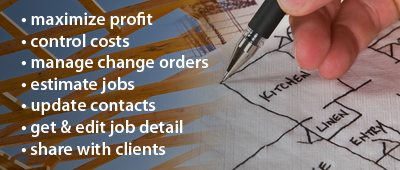
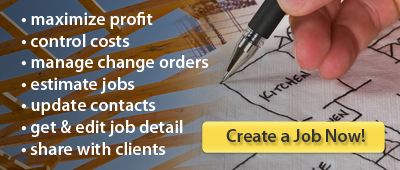
updated files

Changed region(s): [[0.48, 0.7059, 0.96, 0.9118]]

diff --git a/gold/js/libs/modernizr.custom.min.js b/gold/js/libs/modernizr.custom.min.js
@@ -1,0 +1,4 @@
+/* Modernizr 2.0.6 (Custom Build) | MIT & BSD
+ * Contains: iepp | respond | mq | cssclasses | teststyles | load
+ */
+;window.Modernizr=function(a,b,c){function z(a,b){return!!~(""+a).indexOf(b)}function y(a,b){return typeof a===b}function x(a,b){return w(prefixes.join(a+";")+(b||""))}function w(a){k.cssText=a}var d="2.0.6",e={},f=!0,g=b.documentElement,h=b.head||b.getElementsByTagName("head")[0],i="modernizr",j=b.createElement(i),k=j.style,l,m=Object.prototype.toString,n={},o={},p={},q=[],r=function(a,c,d,e){var f,h,j,k=b.createElement("div");if(parseInt(d,10))while(d--)j=b.createElement("div"),j.id=e?e[d]:i+(d+1),k.appendChild(j);f=["&shy;","<style>",a,"</style>"].join(""),k.id=i,k.innerHTML+=f,g.appendChild(k),h=c(k,a),k.parentNode.removeChild(k);return!!h},s=function(b){if(a.matchMedia)return matchMedia(b).matches;var c;r("@media "+b+" { #"+i+" { position: absolute; } }",function(b){c=(a.getComputedStyle?getComputedStyle(b,null):b.currentStyle).position=="absolute"});return c},t,u={}.hasOwnProperty,v;!y(u,c)&&!y(u.call,c)?v=function(a,b){return u.call(a,b)}:v=function(a,b){return b in a&&y(a.constructor.prototype[b],c)};for(var A in n)v(n,A)&&(t=A.toLowerCase(),e[t]=n[A](),q.push((e[t]?"":"no-")+t));w(""),j=l=null,a.attachEvent&&function(){var a=b.createElement("div");a.innerHTML="<elem></elem>";return a.childNodes.length!==1}()&&function(a,b){function s(a){var b=-1;while(++b<g)a.createElement(f[b])}a.iepp=a.iepp||{};var d=a.iepp,e=d.html5elements||"abbr|article|aside|audio|canvas|datalist|details|figcaption|figure|footer|header|hgroup|mark|meter|nav|output|progress|section|summary|time|video",f=e.split("|"),g=f.length,h=new RegExp("(^|\\s)("+e+")","gi"),i=new RegExp("<(/*)("+e+")","gi"),j=/^\s*[\{\}]\s*$/,k=new RegExp("(^|[^\\n]*?\\s)("+e+")([^\\n]*)({[\\n\\w\\W]*?})","gi"),l=b.createDocumentFragment(),m=b.documentElement,n=m.firstChild,o=b.createElement("body"),p=b.createElement("style"),q=/print|all/,r;d.getCSS=function(a,b){if(a+""===c)return"";var e=-1,f=a.length,g,h=[];while(++e<f){g=a[e];if(g.disabled)continue;b=g.media||b,q.test(b)&&h.push(d.getCSS(g.imports,b),g.cssText),b="all"}return h.join("")},d.parseCSS=function(a){var b=[],c;while((c=k.exec(a))!=null)b.push(((j.exec(c[1])?"\n":c[1])+c[2]+c[3]).replace(h,"$1.iepp_$2")+c[4]);return b.join("\n")},d.writeHTML=function(){var a=-1;r=r||b.body;while(++a<g){var c=b.getElementsByTagName(f[a]),d=c.length,e=-1;while(++e<d)c[e].className.indexOf("iepp_")<0&&(c[e].className+=" iepp_"+f[a])}l.appendChild(r),m.appendChild(o),o.className=r.className,o.id=r.id,o.innerHTML=r.innerHTML.replace(i,"<$1font")},d._beforePrint=function(){p.styleSheet.cssText=d.parseCSS(d.getCSS(b.styleSheets,"all")),d.writeHTML()},d.restoreHTML=function(){o.innerHTML="",m.removeChild(o),m.appendChild(r)},d._afterPrint=function(){d.restoreHTML(),p.styleSheet.cssText=""},s(b),s(l);d.disablePP||(n.insertBefore(p,n.firstChild),p.media="print",p.className="iepp-printshim",a.attachEvent("onbeforeprint",d._beforePrint),a.attachEvent("onafterprint",d._afterPrint))}(a,b),e._version=d,e.mq=s,e.testStyles=r,g.className=g.className.replace(/\bno-js\b/,"")+(f?" js "+q.join(" "):"");return e}(this,this.document),function(a,b){function u(){r(!0)}a.respond={},respond.update=function(){},respond.mediaQueriesSupported=b;if(!b){var c=a.document,d=c.documentElement,e=[],f=[],g=[],h={},i=30,j=c.getElementsByTagName("head")[0]||d,k=j.getElementsByTagName("link"),l=[],m=function(){var b=k,c=b.length,d=0,e,f,g,i;for(;d<c;d++)e=b[d],f=e.href,g=e.media,i=e.rel&&e.rel.toLowerCase()==="stylesheet",!!f&&i&&!h[f]&&(!/^([a-zA-Z]+?:(\/\/)?(www\.)?)/.test(f)||f.replace(RegExp.$1,"").split("/")[0]===a.location.host?l.push({href:f,media:g}):h[f]=!0);n()},n=function(){if(l.length){var a=l.shift();s(a.href,function(b){o(b,a.href,a.media),h[a.href]=!0,n()})}},o=function(a,b,c){var d=a.match(/@media[^\{]+\{([^\{\}]+\{[^\}\{]+\})+/gi),g=d&&d.length||0,b=b.substring(0,b.lastIndexOf("/")),h=function(a){return a.replace(/(url\()['"]?([^\/\)'"][^:\)'"]+)['"]?(\))/g,"$1"+b+"$2$3")},i=!g&&c,j=0,k,l,m,n,o;b.length&&(b+="/"),i&&(g=1);for(;j<g;j++){k=0,i?(l=c,f.push(h(a))):(l=d[j].match(/@media ([^\{]+)\{([\S\s]+?)$/)&&RegExp.$1,f.push(RegExp.$2&&h(RegExp.$2))),n=l.split(","),o=n.length;for(;k<o;k++)m=n[k],e.push({media:m.match(/(only\s+)?([a-zA-Z]+)(\sand)?/)&&RegExp.$2,rules:f.length-1,minw:m.match(/\(min\-width:[\s]*([\s]*[0-9]+)px[\s]*\)/)&&parseFloat(RegExp.$1),maxw:m.match(/\(max\-width:[\s]*([\s]*[0-9]+)px[\s]*\)/)&&parseFloat(RegExp.$1)})}r()},p,q,r=function(a){var b="clientWidth",h=d[b],l=c.compatMode==="CSS1Compat"&&h||c.body[b]||h,m={},n=c.createDocumentFragment(),o=k[k.length-1],s=(new Date).getTime();if(a&&p&&s-p<i)clearTimeout(q),q=setTimeout(r,i);else{p=s;for(var t in e){var u=e[t];if(!u.minw&&!u.maxw||(!u.minw||u.minw&&l>=u.minw)&&(!u.maxw||u.maxw&&l<=u.maxw))m[u.media]||(m[u.media]=[]),m[u.media].push(f[u.rules])}for(var t in g)g[t]&&g[t].parentNode===j&&j.removeChild(g[t]);for(var t in m){var v=c.createElement("style"),w=m[t].join("\n");v.type="text/css",v.media=t,v.styleSheet?v.styleSheet.cssText=w:v.appendChild(c.createTextNode(w)),n.appendChild(v),g.push(v)}j.insertBefore(n,o.nextSibling)}},s=function(a,b){var c=t();if(!!c){c.open("GET",a,!0),c.onreadystatechange=function(){c.readyState==4&&(c.status==200||c.status==304)&&b(c.responseText)};if(c.readyState==4)return;c.send()}},t=function(){var a=!1,b=[function(){return new ActiveXObject("Microsoft.XMLHTTP")},function(){return new XMLHttpRequest}],c=b.length;while(c--){try{a=b[c]()}catch(d){continue}break}return function(){return a}}();m(),respond.update=m,a.addEventListener?a.addEventListener("resize",u,!1):a.attachEvent&&a.attachEvent("onresize",u)}}(this,Modernizr.mq("only all")),function(a,b,c){function k(a){return!a||a=="loaded"||a=="complete"}function j(){var a=1,b=-1;while(p.length- ++b)if(p[b].s&&!(a=p[b].r))break;a&&g()}function i(a){var c=b.createElement("script"),d;c.src=a.s,c.onreadystatechange=c.onload=function(){!d&&k(c.readyState)&&(d=1,j(),c.onload=c.onreadystatechange=null)},m(function(){d||(d=1,j())},H.errorTimeout),a.e?c.onload():n.parentNode.insertBefore(c,n)}function h(a){var c=b.createElement("link"),d;c.href=a.s,c.rel="stylesheet",c.type="text/css";if(!a.e&&(w||r)){var e=function(a){m(function(){if(!d)try{a.sheet.cssRules.length?(d=1,j()):e(a)}catch(b){b.code==1e3||b.message=="security"||b.message=="denied"?(d=1,m(function(){j()},0)):e(a)}},0)};e(c)}else c.onload=function(){d||(d=1,m(function(){j()},0))},a.e&&c.onload();m(function(){d||(d=1,j())},H.errorTimeout),!a.e&&n.parentNode.insertBefore(c,n)}function g(){var a=p.shift();q=1,a?a.t?m(function(){a.t=="c"?h(a):i(a)},0):(a(),j()):q=0}function f(a,c,d,e,f,h){function i(){!o&&k(l.readyState)&&(r.r=o=1,!q&&j(),l.onload=l.onreadystatechange=null,m(function(){u.removeChild(l)},0))}var l=b.createElement(a),o=0,r={t:d,s:c,e:h};l.src=l.data=c,!s&&(l.style.display="none"),l.width=l.height="0",a!="object"&&(l.type=d),l.onload=l.onreadystatechange=i,a=="img"?l.onerror=i:a=="script"&&(l.onerror=function(){r.e=r.r=1,g()}),p.splice(e,0,r),u.insertBefore(l,s?null:n),m(function(){o||(u.removeChild(l),r.r=r.e=o=1,j())},H.errorTimeout)}function e(a,b,c){var d=b=="c"?z:y;q=0,b=b||"j",C(a)?f(d,a,b,this.i++,l,c):(p.splice(this.i++,0,a),p.length==1&&g());return this}function d(){var a=H;a.loader={load:e,i:0};return a}var l=b.documentElement,m=a.setTimeout,n=b.getElementsByTagName("script")[0],o={}.toString,p=[],q=0,r="MozAppearance"in l.style,s=r&&!!b.createRange().compareNode,t=r&&!s,u=s?l:n.parentNode,v=a.opera&&o.call(a.opera)=="[object Opera]",w="webkitAppearance"in l.style,x=w&&"async"in b.createElement("script"),y=r?"object":v||x?"img":"script",z=w?"img":y,A=Array.isArray||function(a){return o.call(a)=="[object Array]"},B=function(a){return Object(a)===a},C=function(a){return typeof a=="string"},D=function(a){return o.call(a)=="[object Function]"},E=[],F={},G,H;H=function(a){function f(a){var b=a.split("!"),c=E.length,d=b.pop(),e=b.length,f={url:d,origUrl:d,prefixes:b},g,h;for(h=0;h<e;h++)g=F[b[h]],g&&(f=g(f));for(h=0;h<c;h++)f=E[h](f);return f}function e(a,b,e,g,h){var i=f(a),j=i.autoCallback;if(!i.bypass){b&&(b=D(b)?b:b[a]||b[g]||b[a.split("/").pop().split("?")[0]]);if(i.instead)return i.instead(a,b,e,g,h);e.load(i.url,i.forceCSS||!i.forceJS&&/css$/.test(i.url)?"c":c,i.noexec),(D(b)||D(j))&&e.load(function(){d(),b&&b(i.origUrl,h,g),j&&j(i.origUrl,h,g)})}}function b(a,b){function c(a){if(C(a))e(a,h,b,0,d);else if(B(a))for(i in a)a.hasOwnProperty(i)&&e(a[i],h,b,i,d)}var d=!!a.test,f=d?a.yep:a.nope,g=a.load||a.both,h=a.callback,i;c(f),c(g),a.complete&&b.load(a.complete)}var g,h,i=this.yepnope.loader;if(C(a))e(a,0,i,0);else if(A(a))for(g=0;g<a.length;g++)h=a[g],C(h)?e(h,0,i,0):A(h)?H(h):B(h)&&b(h,i);else B(a)&&b(a,i)},H.addPrefix=function(a,b){F[a]=b},H.addFilter=function(a){E.push(a)},H.errorTimeout=1e4,b.readyState==null&&b.addEventListener&&(b.readyState="loading",b.addEventListener("DOMContentLoaded",G=function(){b.removeEventListener("DOMContentLoaded",G,0),b.readyState="complete"},0)),a.yepnope=d()}(this,this.document),Modernizr.load=function(){yepnope.apply(window,[].slice.call(arguments,0))};

diff --git a/gold/index.html b/gold/index.html
@@ -1,119 +1,144 @@
 <!DOCTYPE html>
 <!-- Matthew Richter, Project 2 for MIU 1205 Full Sail University  -->
 <!-- May 7, 1212 -->
-<!-- HTML TAG -->
+<!-- HTML TAG --> 
 <html lang="en">
-	<!-- Document Header -->
-	<head>
-		<meta charset="UTF-8"/>
-		<meta name="description" content="A BBTmobi.com app to help contractors be more profitable and organized." />
-		<meta name="keywords" content="construction, planning, organization, more profits, guide" />
-		<!-- allows search engine robots to index our page in a search engine and follow (continue reading through) links on our page. -->
-		<meta name= "robots" content="index, follow" />
-		<!-- Mobile IE needs ClearType for smoothing fonts -->
-		<meta http-equiv="cleartype" content="on">
-		<!-- Allows our content to size correctly to an iphone display -->
-		<!-- Viewport tells the browser to allow the user to scale the content and how wide it should assume the content woll be displayed (i.e. a full 960 or 		the width of the device ) -->
-		<!--  Mobile viewport optimized: j.mp/bplateviewport -->
-		<meta name="HandheldFriendly" content="True"/>
-		<meta name="MobileOptimized" content="320"/>
-		<meta name="viewport" content="user-scalable=no, width=device-width, initial-scale=1.0"/>
-		<!-- Document Title  -->
-		<title>BBTmobi.com - Job Genie</title>
-		<!-- Import our CSS Styles -->
-		<link rel="stylesheet" href="http://code.jquery.com/mobile/1.1.0/jquery.mobile-1.1.0.min.css" />
-		<link href= "css/style.css" rel= "stylesheet" type="text/css"/>
-		<!-- JavaScript is normally at the end of the body, except for Modernizr which enables HTML5 elements & feature detects -->
-		<script src="js/libs/modernizr.custom.min.js"></script>
-	</head>
-	<!-- Document Body -->
-	<body>
-		<div data-role="page" id="home">
+<head>
+	<!-- Document Title  -->
+	<title>BBTmobi.com - Job Genie</title>
+	<meta charset="utf-8">
+	
+	<title>Mobile Site Template</title>
+	<meta name="description" content="A BBTmobi.com app to help contractors be more profitable and organized." />
+	<meta name="keywords" content="construction, planning, organization, more profits, guide" />
+	<!-- allows search engine robots to index our page in a search engine and follow (continue reading through) links on our page. -->
+	<meta name= "robots" content="index, follow" />
+
+	<!--  Mobile viewport optimized: j.mp/bplateviewport -->
+	<meta name="HandheldFriendly" content="True">
+	<meta name="MobileOptimized" content="320"/>
+	<meta name="viewport" content="width=device-width, initial-scale=1.0">
+	
+	<!-- Mobile IE needs ClearType for smoothing fonts -->
+	<meta http-equiv="cleartype" content="on">
+	
+	<!-- StyleSheets under here -->
+	<link rel="stylesheet" href="http://code.jquery.com/mobile/1.1.0/jquery.mobile-1.1.0.min.css" />
+	<link href= "css/style.css" rel= "stylesheet" type="text/css"/>
+	
+	<!-- JavaScript is normally at the end of the body, except for Modernizr which enables HTML5 elements & feature detects -->
+	<script src="js/libs/modernizr.custom.min.js"></script>
+
+</head>
+<body>
+	<!-- home page -->
+	<div data-role="page" id="home">
 		<div data-role="header" data-position="fixed">
-			<h1>Joe Genie</h1>	
+			<h1>Joe Genie</h1>
 		</div>
-		<h6>Helping you organize projects & profitability.</h6>
-			<!-- Call to Action -->
-		<div data-role="content" data-inset="true">
-			<div id="CTA">
-				<img src="images/cta3.png" border="0" usemap="#Map"/>
-				<map name="Map">
-					<area shape="rect" coords="247,121,458,157" href="addProject.html">
-				</map>
-			</div>
-		</div>
-			<div data-role="content">
-			<p><a href="#addProject" data-role="button" data-icon="arrow-r" data-iconpos="right" data-theme="e" >Create a new project now!</a></p>
+		<div data-role="content">
+			<img src="images/cta3.png" border="0" usemap="#Map"/>
+			<map name="Map">
+				<area shape="rect" coords="200,121,388,157" href="addProject.html">
+			</map>
 		</div>
 		<div data-role="content">
 			<ul data-role="listview" data-inset="true">
 				<li>
-					<a href="under.html">
-						<h3>Lavatories</h3>
-						<p>bathrooms, vanities, tile showers, fixtures</p>
-					</a></li>
-				<li>
-					<a>
+					<a href="#additions">
+						<img src="images/a.png"/>
 						<h3>Additions</h3>
 						<p>cap to colonial, master bedroom, second story</p>
 					</a></li>
 				<li>
-					<a>
-						<h3>Roofs</h3>
-						<p>weather shielding, turrets, slate</p>
-					</a></li>
+					<a href="#basements">
+						<img src="images/b.png"/>
+						<h3>Basements</h3>
+						<p>game room, extra kitchen, wine cellar, man cave</p>
+					</a></li>	
 				<li>
-					<a>
+					<a href="#kitchens">
+						<img src="images/k.png"/>
 						<h3>Kitchens</h3>
 						<p>cabinets, tile back splash, custom islands, counter tops</p>
 					</a></li>
 				<li>
-					<a>
-						<h3>Basements</h3>
-						<p>game room, extra kitchen, wine cellar, man cave</p>
-					</a></li>	
+					<a href="#lavatories">
+						<img src="images/l.png"/>
+						<h3>Lavatories</h3>
+						<p>bathrooms, vanities, tile showers, fixtures</p>
+					</a></li>
+				<li>
+					<a href="#roofs">
+						<img src="images/r.png"/>
+						<h3>Roofs</h3>
+						<p>weather shielding, turrets, slate</p>
+					</a></li>
 			</ul>
 		</div>
 		<div data-role="footer" data-position="fixed">
 			<h4>Footer</h4>
 		</div>
+	</div>
+	<!-- additions page -->
+	<div data-role="page" id="additions" data-add-back-btn="true">
+		<div data-role="header" data-position="fixed">
+			<h1>Additions</h1>
 		</div>
-		<!-- search --> 
-		<div id="Search">
-			<img src="images/search.png"/>
+		
+		<div data-role="footer" data-position="fixed">
+			<h4>Footer</h4>
 		</div>
-		<!-- browse --> 
-		<div id="browse title" border="0">
-			<h4>Browse project categories:</h4>	
+	</div>
+	<!-- basements page -->
+	<div data-role="page" id="basements" data-add-back-btn="true">
+		<div data-role="header" data-position="fixed">
+			<h1>Basements</h1>
 		</div>
-		<!-- I will use h5 when we use JQM - I didn't want the CSS to break so I used images --> 
-		<!-- I will also create additional divs for each category if need be--> 
-		<!-- H5 and the divs contained in it will be my title sections -->
-		<h5>
-			<div id="Categorie1" border="0" >
-				<img src="images/additions.png" border="0"/>
-			</div>
-			<div id="Categorie2" border="0" >	
-				<img src="images/kitchens.png" border="0"/>
-			</div>
-			<div id="Categorie3" border="0" >	
-				<img src="images/lavatories.png" border="0"/>
-			</div>
-			<div id="Categorie4" border="0" >	
-				<img src="images/roofs.png" border="0"/>
-			</div>
-			<div id="Categorie5" border="0" >	
-				<img src="images/basements.png" border="0"/>
-			</div>
-		</h5> 
-		<!-- Footer Group --> 
-		<footer>
-			<p><small> &copy; 2012 BBTmobi.com All Rights Reserved.</small></p>
-		</footer>
-		<!-- JavaScript under here -->
-		<script src="http://code.jquery.com/jquery-1.6.4.min.js"></script>
-		<script src="http://code.jquery.com/mobile/1.1.0/jquery.mobile-1.1.0.min.js"></script>
-		<script src="js/json.js" type="text/javascript"></script>
-		<script src="js/main.js" type="text/javascript"></script>	
-	</body>
+		
+		<div data-role="footer" data-position="fixed">
+			<h4>Footer</h4>
+		</div>
+	</div>
+	<!-- kitchens page -->
+	<div data-role="page" id="kitchens" data-add-back-btn="true">
+		<div data-role="header" data-position="fixed">
+			<h1>Kitchens</h1>
+		</div>
+		
+		<div data-role="footer" data-position="fixed">
+			<h4>Footer</h4>
+		</div>
+	</div>
+	<!-- lavatories page -->
+	<div data-role="page" id="lavatories" data-add-back-btn="true">
+		<div data-role="header" data-position="fixed">
+			<h1>Lavatories</h1>
+		</div>
+		
+		<div data-role="footer" data-position="fixed">
+			<h4>Footer</h4>
+		</div>
+	</div>
+	<!-- roofs page -->
+	<div data-role="page" id="roofs" data-add-back-btn="true">
+		<div data-role="header" data-position="fixed">
+			<h1>Roofs</h1>
+		</div>
+		
+		<div data-role="footer" data-position="fixed">
+			<h4>Footer</h4>
+		</div>
+	</div>
+
+	
+
+	
+
+	<!-- JavaScript under here -->
+	<script src="http://code.jquery.com/jquery-1.6.4.min.js"></script>
+	<script src="http://code.jquery.com/mobile/1.1.0/jquery.mobile-1.1.0.min.js"></script>
+	<script src="js/json.js" type="text/javascript"></script>
+	<script src="js/main.js" type="text/javascript"></script>
+</body>
 </html>

diff --git a/gold/index1.html b/gold/index1.html
@@ -1,0 +1,103 @@
+<!DOCTYPE html>
+<!-- Matthew Richter, Project 2 for MIU 1205 Full Sail University  -->
+<!-- May 7, 1212 -->
+<!-- HTML TAG -->
+<html lang="en">
+	<!-- Document Header -->
+	<head>
+		<meta charset="UTF-8"/>
+		<meta name="description" content="A BBTmobi.com app to help contractors be more profitable and organized." />
+		<meta name="keywords" content="construction, planning, organization, more profits, guide" />
+		<!-- allows search engine robots to index our page in a search engine and follow (continue reading through) links on our page. -->
+		<meta name= "robots" content="index, follow" />
+		<!-- Mobile IE needs ClearType for smoothing fonts -->
+		<meta http-equiv="cleartype" content="on">
+		<!-- Allows our content to size correctly to an iphone display -->
+		<!-- Viewport tells the browser to allow the user to scale the content and how wide it should assume the content woll be displayed (i.e. a full 960 or 		the width of the device ) -->
+		<!--  Mobile viewport optimized: j.mp/bplateviewport -->
+		<meta name="HandheldFriendly" content="True"/>
+		<meta name="MobileOptimized" content="320"/>
+		<meta name="viewport" content="user-scalable=no, width=device-width, initial-scale=1.0"/>
+		<!-- Document Title  -->
+		<title>BBTmobi.com - Job Genie</title>
+		<!-- Import our CSS Styles -->
+		<link rel="stylesheet" href="http://code.jquery.com/mobile/1.1.0/jquery.mobile-1.1.0.min.css" />
+		<link href= "css/style.css" rel= "stylesheet" type="text/css"/>
+		<!-- JavaScript is normally at the end of the body, except for Modernizr which enables HTML5 elements & feature detects -->
+		<script src="js/libs/modernizr.custom.min.js"></script>
+	</head>
+	<!-- Document Body -->
+	<body>
+		<div data-role="page" id="home">
+			<div data-role="header" data-position="fixed">
+				<h1>Joe Genie</h1>	
+			</div>
+			<!-- Call to Action -->
+			<p>Helping contractors become more orgaized and profitable.</p>
+			<div data-role="content" data-inset="true" id="cta">
+				<img src="images/cta3.png"  />
+			</div>
+			<div>
+				<p><a href="addProject.html" data-role="button" data-icon="arrow-r" data-iconpos="right" data-theme="e" >Add Project</a></p>
+			</div>
+			<div data-role="content">
+				<ul data-role="listview" data-inset="true">
+					<li>
+						<a href="#additions">
+							<img src="images/a.png"/>
+							<h3>Additions</h3>
+							<p>cape to colonial, master bedroom, second story</p>
+						</a>
+					</li>
+					<li>
+						<a>
+							<img src="images/b.png"/>
+							<h3>Basements</h3>
+							<p>game room, extra kitchen, wine cellar, man cave</p>
+						</a>
+					</li>	
+					<li>
+						<a>
+							<img src="images/k.png"/>
+							<h3>Kitchens</h3>
+							<p>cabinets, tile back splash, custom islands, counter tops</p>
+						</a>
+					</li>
+					<li>
+						<a href="under.html">
+							<img src="images/l.png"/>
+							<h3>Lavatories</h3>
+							<p>bathrooms, vanities, tile showers, fixtures</p>
+						</a>
+					</li>
+					<li>
+						<a>
+							<img src="images/r.png"/>
+							<h3>Roofs</h3>
+							<p>weather shielding, turrets, slate</p>
+						</a>
+					</li>
+				</ul>
+		</div>
+		<div data-role="footer" data-position="fixed">
+			<h4>Footer</h4>
+		</div>
+		<!-- additions page -->
+		<div data-role="page" id="additions" data-add-back-btn="true">
+			<div data-role="header" data-position="fixed">
+				<h1>Additions</h1>
+			</div>
+			<div data-role="content">
+				<p>cap to colonial, master bedroom, second story</p>
+			</div>
+			<div data-role="footer" data-position="fixed">
+				<h4>Footer</h4>
+			</div>
+		</div>
+		<!-- JavaScript under here -->
+		<script src="http://code.jquery.com/jquery-1.6.4.min.js"></script>
+		<script src="http://code.jquery.com/mobile/1.1.0/jquery.mobile-1.1.0.min.js"></script>
+		<script src="js/json.js" type="text/javascript"></script>
+		<script src="js/main.js" type="text/javascript"></script>	
+	</body>
+</html>

diff --git a/gold/css/style.css b/gold/css/style.css
@@ -1,1 +1,5 @@
 // write your CSS in here
+
+#cta {
+	margin: 10px 10px 10px 10px;
+}
